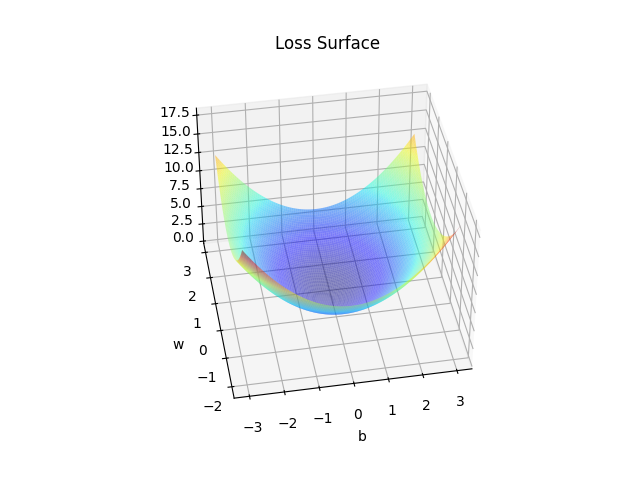
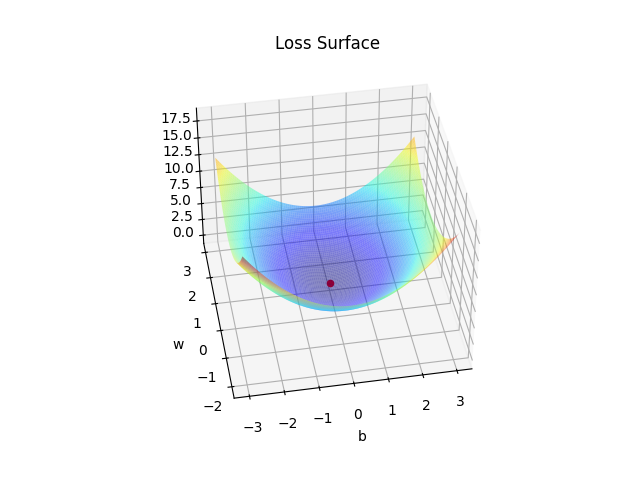
Added golden values to loss surface plot

diff --git a/project_01/src/project1.py b/project_01/src/project1.py
@@ -74,7 +74,7 @@ plt.savefig(f"{FIGURES_DIR}/linear_regression.png");
 
 b_depth = 3;
 w_depth = 3;
-b_range = np.linspace( b_lr - b_depth, b_lr + b_depth, 100 ); 
+b_range = np.linspace( b_lr - b_depth, b_lr + b_depth, 100 );
 w_range = np.linspace( w_lr - w_depth, b_lr + w_depth, 100 );
 b_surf, w_surf = np.meshgrid( b_range, w_range );
 y_surf = np.apply_along_axis( func1d=lambda x: b_surf + w_surf*x,
@@ -87,7 +87,8 @@ loss_surf = (all_errors**2).mean(axis=0);
 
 fig = plt.figure();
 ax = fig.add_subplot( 111, projection='3d')
-ax.plot_surface( b_surf, w_surf, loss_surf, rstride=1, cstride=1, alpha=.5, cmap=plt.cm.jet, linewidth=0, antialiased=True); 
+ax.plot_surface( b_surf, w_surf, loss_surf, rstride=1, cstride=1, alpha=.5, cmap=plt.cm.jet, linewidth=0, antialiased=True);
+ax.scatter(b_lr, w_lr, color='red', s=20);
 ax.set_xlabel('b');
 ax.set_ylabel('w');
 ax.set_title('Loss Surface');
@@ -119,10 +120,10 @@ ax = fig.add_subplot( 111, projection='3d')
 # Part D
 # ~~~~~~~~~~~~~~~~~~~~~~~~~~~
 ax.plot_surface( b_surf, w_surf, loss_surf, rstride=1, cstride=1, alpha=.5, cmap=plt.cm.jet, linewidth=0, antialiased=True);
-ax.scatter(b_lr, w_lr, color='red', s=20); 
-ax.scatter(iterations[0][0], iterations[0][1], color='blue', s=40); 
+ax.scatter(b_lr, w_lr, color='red', s=20);
+ax.scatter(iterations[0][0], iterations[0][1], color='blue', s=40);
 ax.scatter(iterations[1:-1:,0], iterations[1:-1:,1,], color='black', s=20);
-ax.scatter(iterations[-1][0], iterations[-1][1], color='blue', s=40); 
+ax.scatter(iterations[-1][0], iterations[-1][1], color='blue', s=40);
 ax.set_xlabel('b');
 ax.set_ylabel('w');
 ax.set_title('Loss Surface');
